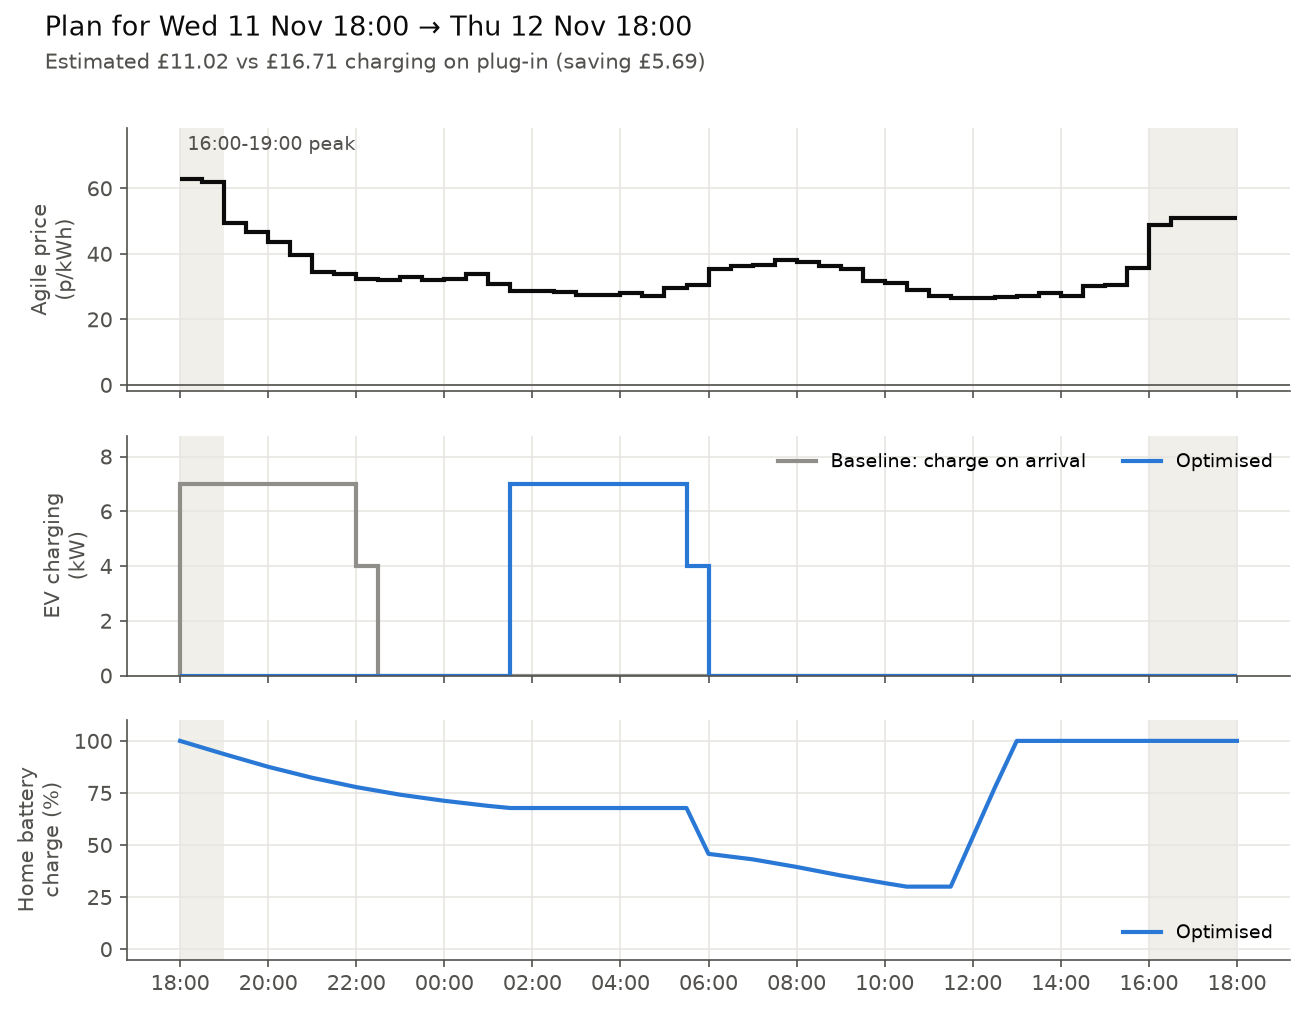
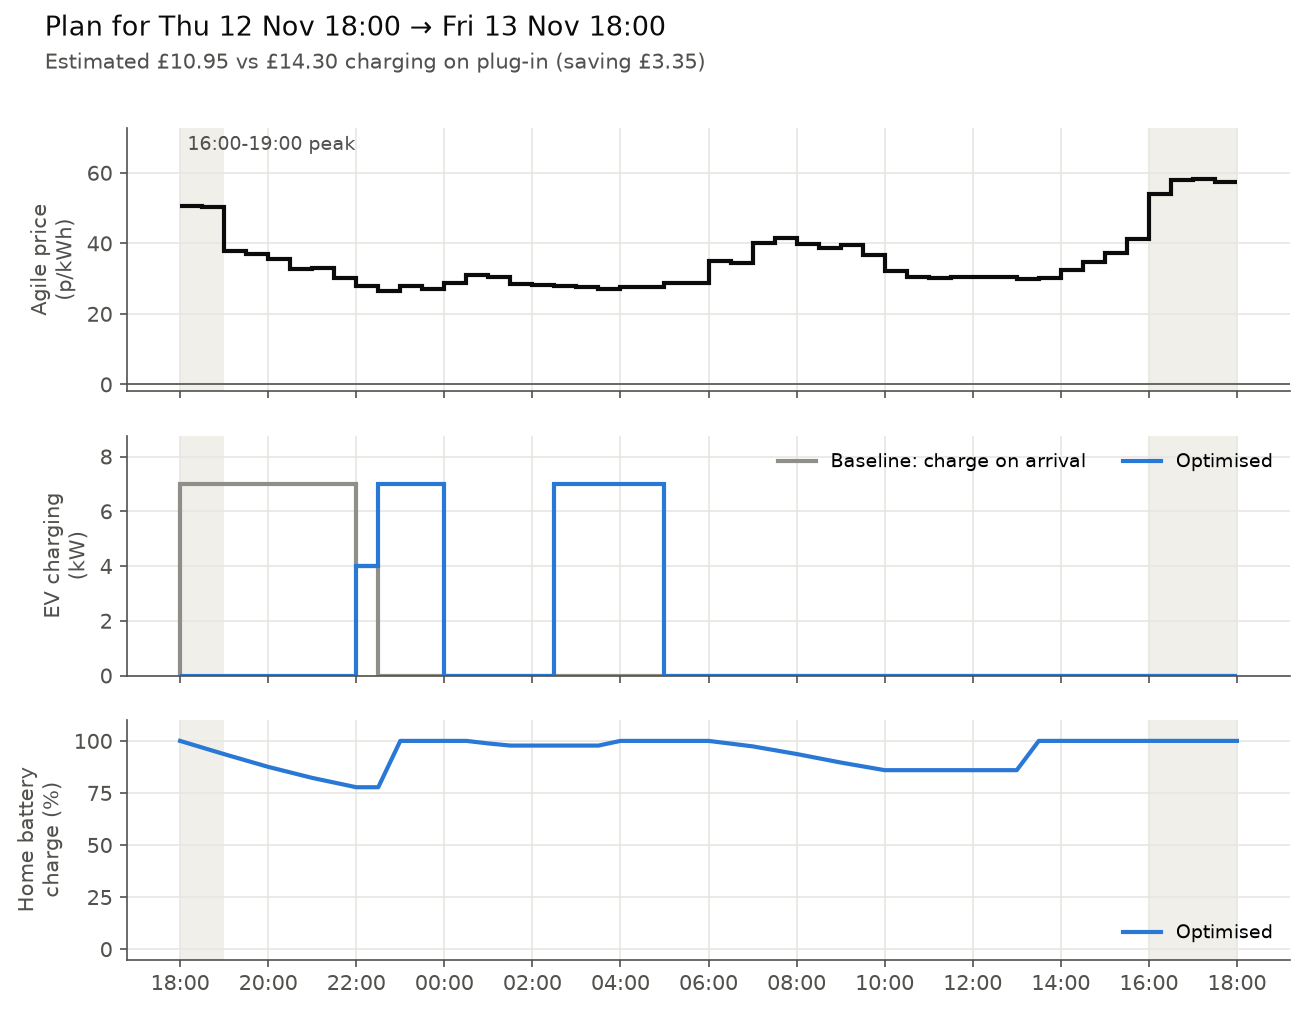
Charging plan for 2026-11-12

diff --git a/plans/latest.md b/plans/latest.md
@@ -1,30 +1,34 @@
-# Charging plan: Wed 11 Nov 18:00 → Thu 12 Nov 18:00
+# Charging plan: Thu 12 Nov 18:00 → Fri 13 Nov 18:00
 
-**Estimated cost for the day (home + car): £11.02**, against £16.71 if the car charged as soon as it was plugged in. **Saving: £5.69 (34%).**
+**Estimated cost for the day (home + car): £10.95**, against £14.30 if the car charged as soon as it was plugged in. **Saving: £3.35 (23%).**
 
-Tariff E-1R-AGILE-24-10-01-C · generated 11 Nov 21:47 UK time
+Tariff E-1R-AGILE-24-10-01-C · generated 12 Nov 17:47 UK time
 
 ## Car: 30 kWh needed by 07:30
 
-- Charge **01:30–06:00**, 30.0 kWh (avg 28.1p/kWh; 2.0 kWh of it from the home battery)
+- Charge **22:00–00:00**, 12.5 kWh (avg 27.2p/kWh)
+- Charge **02:30–05:00**, 17.5 kWh (avg 27.6p/kWh)
 
 ## Home battery
 
-- Charge **11:30–13:00**, 7.4 kWh
-- Power the home (and car) **18:00–01:30**, 3.1 kWh
-- Power the home (and car) **05:30–10:30**, 3.6 kWh
+- Charge **22:30–23:00**, 2.3 kWh
+- Charge **13:00–13:30**, 1.5 kWh
+- Power the home (and car) **18:00–22:00**, 2.1 kWh
+- Power the home (and car) **06:00–10:00**, 1.3 kWh
 
 ## Flexible appliances (washing machine, dishwasher, tumble dryer)
 
-- Good: **11:30–14:30** (avg 27.1p)
-- Avoid: 18:00–19:00 (avg 62.4p)
+- Good: **22:00–23:00** (avg 27.2p)
+- Good: **11:00–12:00** (avg 30.3p)
+- Good: **13:00–14:00** (avg 30.1p)
+- Avoid: 16:30–17:30 (avg 58.0p)
 
 ## Prices
 
-Cheapest 26.7p at 11:30 · most expensive 62.7p at 18:00 · average 35.2p/kWh
+Cheapest 26.5p at 22:30 · most expensive 58.2p at 17:00 · average 35.0p/kWh
 
 ## Running total
 
-Saved **£5.69** over 1 planned day(s) since 11 Nov 2026, compared with charging on plug-in.
+Saved **£9.04** over 2 planned day(s) since 11 Nov 2026, compared with charging on plug-in.
 
 ![Plan chart](latest.png)

diff --git a/plans/archive/2026-11-12.md b/plans/archive/2026-11-12.md
@@ -1,0 +1,33 @@
+# Charging plan: Thu 12 Nov 18:00 → Fri 13 Nov 18:00
+
+**Estimated cost for the day (home + car): £10.95**, against £14.30 if the car charged as soon as it was plugged in. **Saving: £3.35 (23%).**
+
+Tariff E-1R-AGILE-24-10-01-C · generated 12 Nov 17:47 UK time
+
+## Car: 30 kWh needed by 07:30
+
+- Charge **22:00–00:00**, 12.5 kWh (avg 27.2p/kWh)
+- Charge **02:30–05:00**, 17.5 kWh (avg 27.6p/kWh)
+
+## Home battery
+
+- Charge **22:30–23:00**, 2.3 kWh
+- Charge **13:00–13:30**, 1.5 kWh
+- Power the home (and car) **18:00–22:00**, 2.1 kWh
+- Power the home (and car) **06:00–10:00**, 1.3 kWh
+
+## Flexible appliances (washing machine, dishwasher, tumble dryer)
+
+- Good: **22:00–23:00** (avg 27.2p)
+- Good: **11:00–12:00** (avg 30.3p)
+- Good: **13:00–14:00** (avg 30.1p)
+- Avoid: 16:30–17:30 (avg 58.0p)
+
+## Prices
+
+Cheapest 26.5p at 22:30 · most expensive 58.2p at 17:00 · average 35.0p/kWh
+
+## Running total
+
+Saved **£9.04** over 2 planned day(s) since 11 Nov 2026, compared with charging on plug-in.
+
